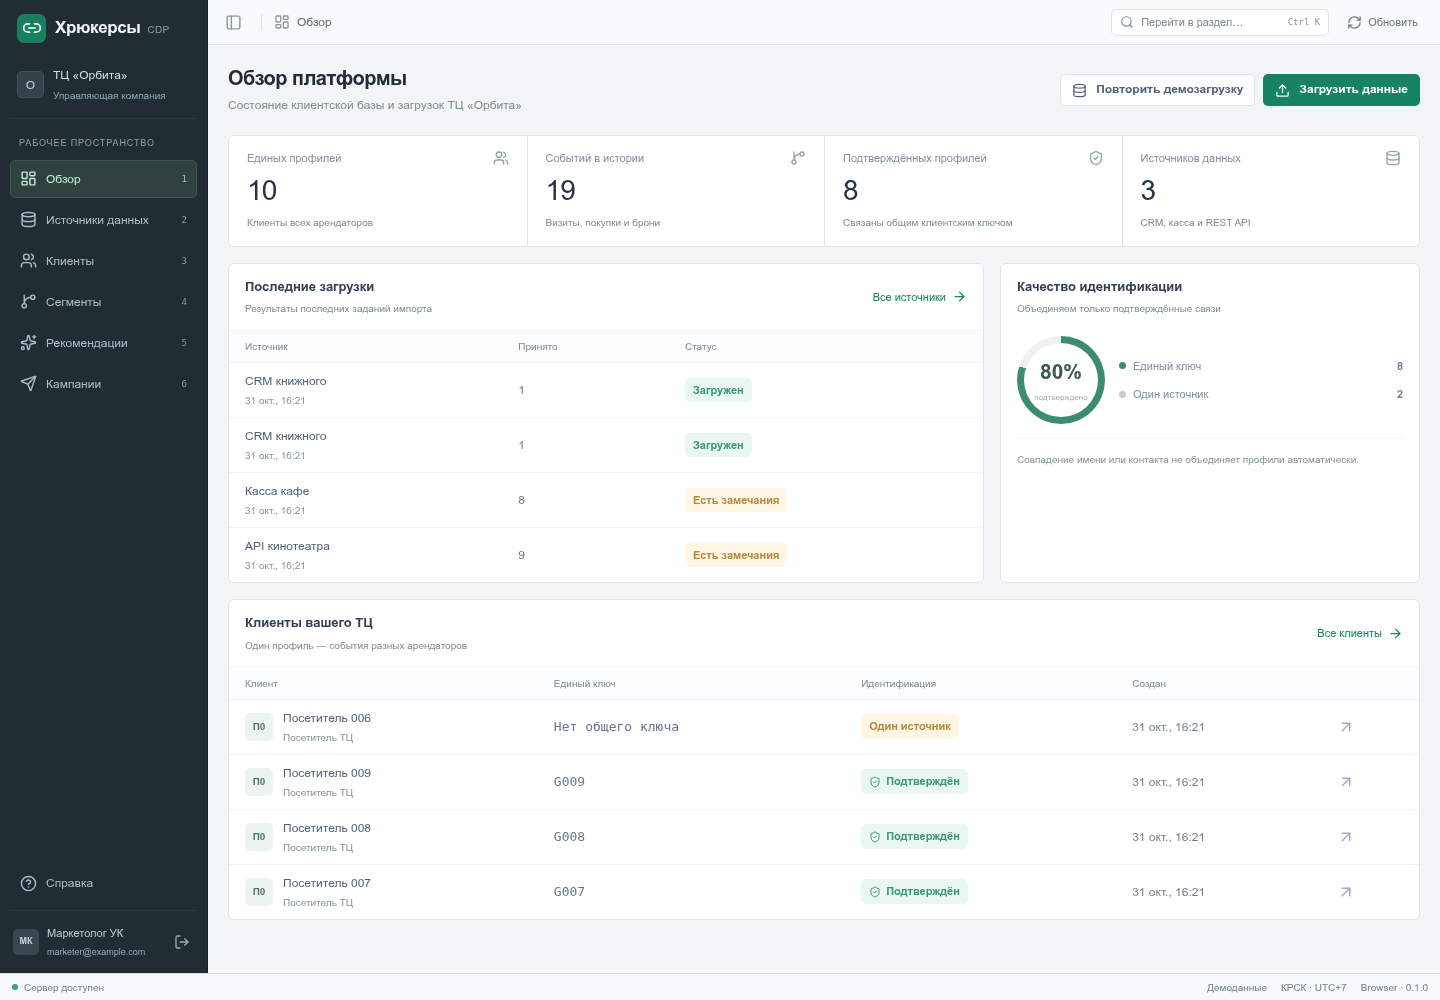
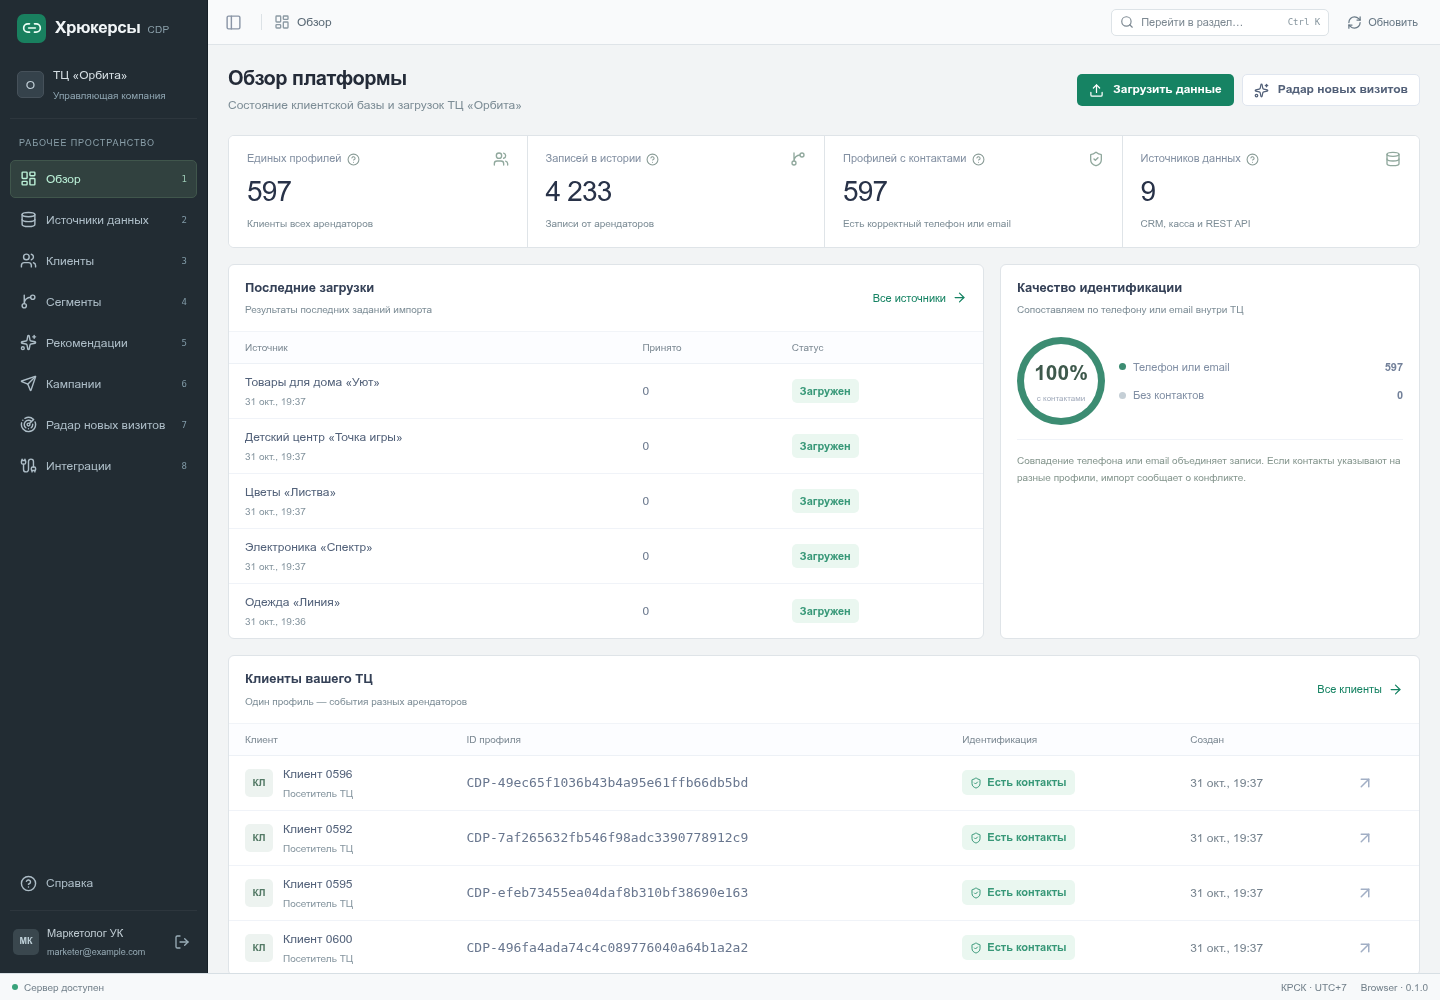
docs: record integration verification and refresh product screenshots

diff --git a/docs/VERIFICATION.md b/docs/VERIFICATION.md
@@ -51,3 +51,15 @@ Backend-проверки покрывают идентификацию без о
 Это локальный MVP с синтетическими данными и демонстрационным REST-источником. Подключение CRM заказчика, реальная отправка сообщений и промышленная нагрузка не проверялись. Рекомендации основаны на редактируемых бизнес-правилах. Периоды полноты источников заданы явно; их согласование и обновление для реальных интеграций остаются следующим этапом.
 
 В pytest есть предупреждение о будущем изменении HTTP-клиента в Starlette TestClient; все тесты завершились успешно.
+# Обновление 31 октября: взаимодействия и автоматические подключения
+
+Для ветки `feat/tenant-data-platform` проверены 123 backend-теста в Docker/Python 3.13 с отдельной БД `_test` и все 7 Playwright-сценариев в отдельном Compose-проекте. Проверены единый CSV/XLSX, инкрементальные страницы API, права ролей и изоляция ТЦ, полнота, радар взаимодействий, кампания, CSV и исключение клиента после новой записи.
+
+Отдельная проверка реального HTTP в изолированном окружении: к API добавлена новая запись; scheduler сам создал задание, worker принял одну запись без дублей/отклонений и сохранил позицию. Ручной запуск синхронизации не использовался.
+
+Frontend production build и Linux Tauri debug build успешны. Windows для нового коммита подтверждается отдельно через CI.
+
+Локальное обновление сохранило прежние 112 профилей, 190 событий и одну выгрузку, добавило 597 профилей и 4233 взаимодействия. Итог: 9 арендаторов, 709 профилей, 4423 записи. Числа относятся к текущей локальной базе; чистый заполненный пример имеет другие итоги. API реальных CRM пока не подключены; пример использует вымышленные данные.
+
+Актуальные экраны: [обзор](screenshots/overview.png), [радар](screenshots/radar.png), [интеграции](screenshots/integrations.png). Предыдущие результаты ниже относятся к прежней версии функциональности.
+

diff --git a/docs/INTEGRATIONS.md b/docs/INTEGRATIONS.md
@@ -1,5 +1,7 @@
 # Единый сбор взаимодействий и права
 
+[Экран интеграций](screenshots/integrations.png)
+
 Все новые записи содержат только **телефон (`phone`), email (`email`) и время взаимодействия (`time`)**. Нужен хотя бы один корректный контакт. Время обязательно, в ISO 8601 с часовым поясом. ID клиента и события вычисляет платформа. Имя, сумма и тип покупки не собираются.
 
 Из трёх полей нельзя определить покупку, бронь или физическое присутствие. Создаётся событие `interaction`; новые сегменты и радар проверяют взаимодействия. Исторические события сохраняют свои типы, старые адаптеры оставлены для совместимости.
